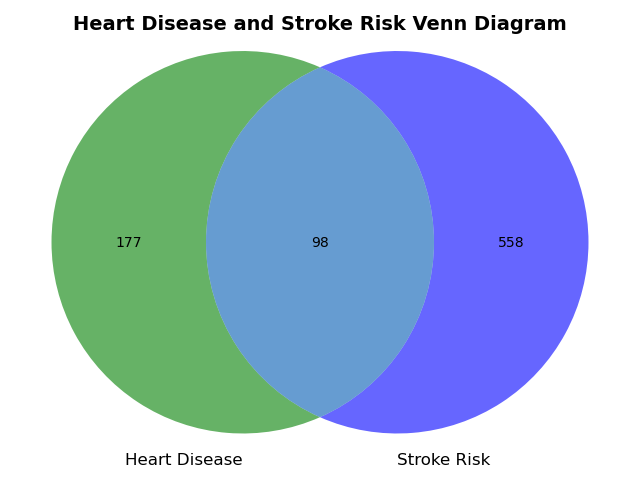
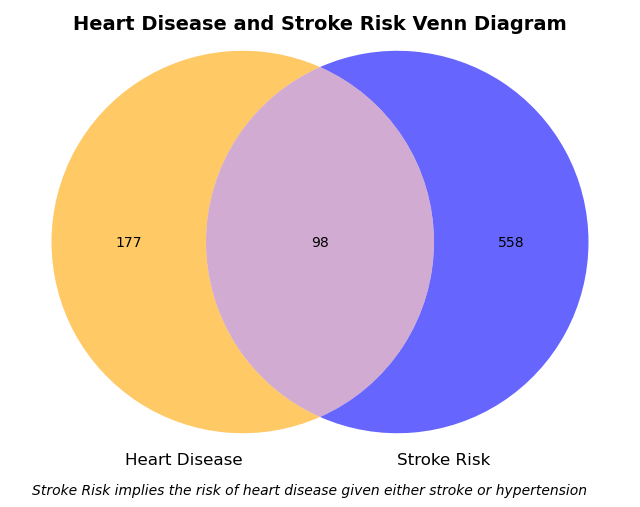
Updates

diff --git a/README.md b/README.md
@@ -72,6 +72,14 @@ Dataset](https://www.kaggle.com/datasets/fedesoriano/stroke-prediction-dataset)
 | `stroke`               | A binary indicator (0 or 1) representing whether the patient has experienced a stroke.                                        | `int64`        |
 | `smoking_status`       | The smoking status of the patient ('formerly smoked', 'never smoked', 'smokes', 'Unknown').                                   | `object`       |
 
+Additional columns that we have created for the analysis are heart risk and stroke risk. 
+
+**Heart Risk** - It implies the risk of stroke given either heart disease or hypertension.
+**Stroke Risk** -  It implies the risk of heart disease given either stroke of hypertension.
+
+| `heart_risk`          | A binary indicator (0 or 1) representing whether the patient has hypertension or heart disease.                                | `int64`        |
+| `stroke_risk`         | A binary indicator (0 or 1) representing whether the patient has stroke or hypertension.                                       | `int64`        |
+
 # Data Cleaning and Handling Missing Values
 
 The ‘id’ column has no impact on any of the three outcome variables and was consequently dropped from the datast. Summary statistics for the three numerical variables (age, avg_glucose_level, and bmi) were generated. The nominal variables in this dataset incude the three outcome variables, stroke, heart_disease, and hypertension; and also the predictors used to study the outcome variables (gender, ever_married, work_type, Residence_type, and smoking_status). The three nominal outcome variable are of int64 type with possible values 0 and 1 and were left as is. The predictor nominal variables were all transformed to category type variable. Frequency counts for each category was generated for all the nominal variables,both the predictors as well as the outcomes. All the predictor nominal variables were encoded appropriately using the label encoder method.
@@ -180,7 +188,7 @@ The above plot compares six different variables.  The plot indicates that certai
 
 # Key Findings in Datasets
 ### Key Findings in Stroke Dataset  
-The analysis provides several key insights regarding stroke risk factors:
+The analysis provides several key insights regarding stroke factors:
 
 1. Heart Risk (Heart Disease or Hypertension) Are Associated with Stroke
    - Individuals with heart risk have a significantly higher likelihood of experiencing a stroke.
@@ -191,12 +199,20 @@ The analysis provides several key insights regarding stroke risk factors:
    - A Mann-Whitney U test indicates that age and glucose levels differ significantly between stroke and non-stroke groups.
 
 3. No Significant Association Between Stroke and Gender, Marital Status, Work Type, Residence Type, and Smoking Status
-   - The Chi-square test of independence results show no statistically significant relationship at the 5% significance level, between stroke risk and:
+   - The Chi-square test of independence results show no statistically significant relationship at the 5% significance level, between stroke and:
      - Gender (p = 0.338)
      - Marital status (p = 0.9483)
      - Work type (p = 0.1354)
      - Residence type (p = 0.2686)
      - Smoking status (p = 0.2400)
+
+### Venn Diagram
+<img src="https://github.com/Mulders95/Team_1/blob/main/Plots_Used/venn_diagram_stroke_heartrisk.png" alt="Alt text" style="width: 800px; height: auto;">
+
+The findings from the venn diagram:
+The total patients are 247 who have a history of stroke, regardless of whether they also have heart risk factors (hypertension or heart disease).
+There are 647 patients with heart risk, which includes individuals with hypertension or heart disease, regardless of whether they have experienced a stroke.
+The 100 patients in the intersection highlights the co-occurrence of stroke and heart risk. These are patients who have a history of both stroke and (heart disease or hypertension), meaning they are at a higher risk for further complications. These patients are likely to require targeted interventions or preventive measures due to the compounded health risks.
 
 ### Association Between Stroke and Smoking Status
 A key question in the analysis is whether there is any association between stroke and smoking status. The Chi-Square test of independence indicates no significant association based on the current smoking status categories:
@@ -220,7 +236,7 @@ Regardless of how smoking status is categorized, the dataset consistently shows 
 
 ---
 ### Key Findings in Heart Disease Dataset  
-The analysis provides several key insights regarding heart disease risk factors:  
+The analysis provides several key insights regarding heart disease factors:  
 
 1. Gender Is Significantly Associated with Heart Disease   
     - The dataset suggests that men have a higher likelihood of developing heart disease compared to women.  
@@ -246,6 +262,14 @@ The analysis provides several key insights regarding heart disease risk factors:
 6. Age and Glucose Levels Are Significant Predictors
    - Stroke patients tend to be older and have higher average glucose levels.
    - A Mann-Whitney U test indicates that age and glucose levels differ significantly between heart disease and without heart disease groups.
+
+### Venn Diagram
+<img src="https://github.com/Mulders95/Team_1/blob/main/Plots_Used/venn_diagram_heartdisease_strokerisk.png" alt="Alt text" style="width: 800px; height: auto;">
+
+The findings from the venn diagram:
+The total patients are 275 who have a history of heart disease, regardless of whether they also have stroke risk factors (hypertension or heart disease).
+There are 656 patients with heart risk, which includes individuals with hypertension or stroke, regardless of whether they have experienced a heart disease.
+The 98 patients in the intersection highlights the co-occurrence of heart disease and stroke risk. These are patients who have a history of both heart disease and (stroke or hypertension), which places them at an elevated risk for additional complications. Again, these patients are likely to require targeted interventions or preventive measures due to the compounded health risks.
 
 # Biases and Limitations of Predictive Data  
 
